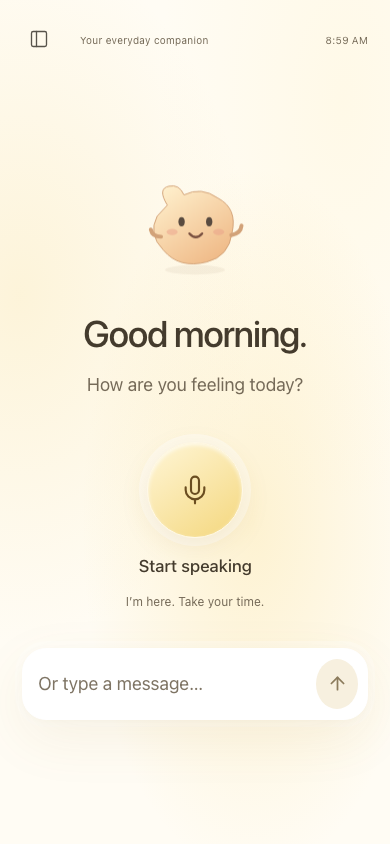
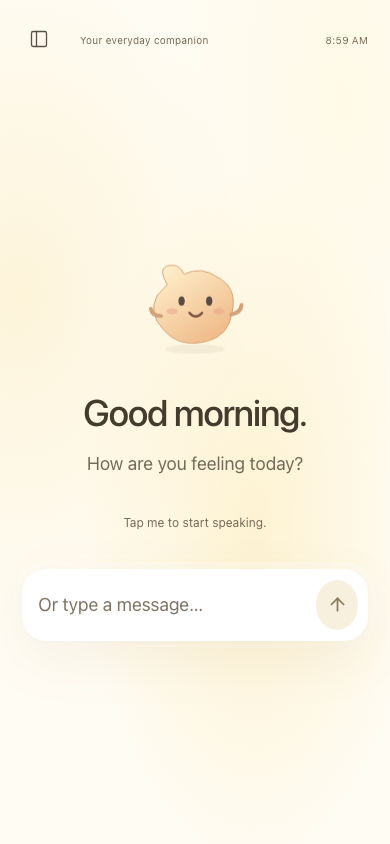
Let people speak to Dayla by tapping the character
Constraint: The character starts and finishes recording without a separate microphone button.
Confidence: high
Scope-risk: narrow
Tested: 18 browser scenarios including character pointer and keyboard control; build, typecheck, lint, format and mobile visual review

Changed region(s): [[0.0923, 0.2156, 0.9231, 0.8626]]

diff --git a/src/client/App.tsx b/src/client/App.tsx
@@ -5,7 +5,6 @@ import {
   Heart,
   PanelLeft,
   MessageCircle,
-  Mic,
   Newspaper,
   Pill,
   RotateCcw,
@@ -368,29 +367,26 @@ export default function App() {
           {view === 'conversation' ? (
             <div className={`conversation ${turns.length ? 'has-turns' : ''}`}>
               <div className="welcome">
-                <DaylaCharacter phase={voice.phase} level={voice.level} />
+                <button
+                  type="button"
+                  className="character-button"
+                  aria-label={voice.phase === 'listening' ? 'Finish speaking' : 'Start speaking'}
+                  aria-describedby="voice-status"
+                  title={voice.phase === 'listening' ? 'Tap to finish' : 'Tap to talk'}
+                  disabled={!online || sending}
+                  onClick={micClick}
+                >
+                  <DaylaCharacter phase={voice.phase} level={voice.level} />
+                </button>
                 <h1 tabIndex={-1}>{greeting}</h1>
                 <p>How are you feeling today?</p>
               </div>
-              <button
-                type="button"
-                className={`voice-trigger ${voice.phase === 'listening' ? 'is-listening' : ''}`}
-                aria-label={voice.phase === 'listening' ? 'Finish speaking' : 'Start speaking'}
-                aria-describedby="voice-status"
-                disabled={!online || sending}
-                onClick={micClick}
-              >
-                <span className="voice-orb" aria-hidden="true">
-                  {voice.phase === 'listening' ? (
-                    <Square size={28} />
-                  ) : (
-                    <Mic size={32} strokeWidth={1.6} />
-                  )}
-                </span>
-                <span>{voice.phase === 'listening' ? 'Finish speaking' : 'Start speaking'}</span>
-              </button>
               <div id="voice-status" className="conversation-status" role="status">
-                {sending ? 'Thinking…' : voice.message || 'I’m here. Take your time.'}
+                {sending
+                  ? 'Thinking…'
+                  : voice.phase === 'listening'
+                    ? 'I’m listening. Tap me again to finish.'
+                    : voice.message || 'Tap me to start speaking.'}
               </div>
               {(voice.phase === 'speaking' ||
                 voice.phase === 'listening' ||

diff --git a/tests/e2e/voice.spec.ts b/tests/e2e/voice.spec.ts
@@ -281,3 +281,23 @@ test('configured voice plays decoded provider audio and can be stopped', async (
   await page.getByRole('button', { name: 'Stop speaking', exact: true }).click();
   await expect(page.locator('.character-idle')).toBeVisible();
 });
+
+test('the character starts and finishes listening with pointer or keyboard', async ({ page }) => {
+  await browserVoices(page);
+  await page.goto('/');
+  const character = page.getByRole('button', { name: 'Start speaking', exact: true });
+  await expect(character.locator('.dayla-character')).toBeVisible();
+  await expect(character).toBeEnabled();
+  await character.click();
+  await page.getByRole('button', { name: 'Use browser voice' }).click();
+  await expect(page.getByText('I’m listening. Tap me again to finish.')).toBeVisible();
+  await page.getByRole('button', { name: 'Finish speaking', exact: true }).click();
+  await expect(character).toBeVisible();
+  await character.press('Enter');
+  await expect(page.getByRole('button', { name: 'Finish speaking', exact: true })).toBeVisible();
+  expect(
+    await page.evaluate(() => (window as unknown as HarnessWindow).__voiceHarness.starts),
+  ).toBe(2);
+  await page.getByRole('button', { name: 'Finish speaking', exact: true }).press('Space');
+  await expect(character).toBeVisible();
+});

diff --git a/src/client/styles.css b/src/client/styles.css
@@ -380,50 +380,19 @@ small {
   gap: 7px;
   align-items: center;
 }
-.voice-trigger {
-  flex-direction: column;
-  gap: 18px;
+.character-button {
+  display: flex;
+  margin: 0 auto;
+  padding: 0;
   border: 0;
-  border-radius: 24px;
-  background: transparent;
-  padding: 12px 24px;
-  font-size: 17px;
-  font-weight: 500;
-  color: var(--ink);
-}
-.voice-trigger:hover {
-  background: transparent;
-}
-.voice-orb {
-  display: grid;
-  place-items: center;
-  width: 96px;
-  height: 96px;
   border-radius: 50%;
-  background: linear-gradient(145deg, #fff6d7, #f4d77d);
-  border: 1px solid #fff9e8;
-  box-shadow:
-    0 8px 28px #a77c2420,
-    0 0 0 8px #ffffff66,
-    inset 0 2px 4px #ffffffb3;
-  color: #6a4d20;
-  transition:
-    box-shadow 0.2s,
-    transform 0.2s;
+  background: transparent;
 }
-.voice-trigger:hover .voice-orb {
-  transform: translateY(-2px);
-  box-shadow:
-    0 12px 32px #a77c2430,
-    0 0 0 10px #ffffff80,
-    inset 0 2px 4px #ffffffb3;
+.character-button:hover {
+  background: #ffffff66;
 }
-.voice-trigger.is-listening .voice-orb {
-  background: #765323;
-  color: white;
-  box-shadow:
-    0 0 0 8px #f2d78b80,
-    0 0 0 16px #f2d78b30;
+.character-button:active {
+  transform: scale(0.97);
 }
 .send-button {
   background: #765323;

diff --git a/docs/DESIGN.md b/docs/DESIGN.md
@@ -2,7 +2,7 @@
 
 ## Current direction
 
-The 2026-10-20 voice-first request supersedes the earlier Korean card dashboard. The interface is English. Home contains a time-of-day greeting, a small original character and a prominent standalone microphone button. Voice status appears directly beneath it; a smaller white text composer provides an always-available alternative. Subtle warm yellow light sits behind the interaction area; generous white space keeps the starting state quiet. Translucent white panels use backdrop blur, white edge highlights and soft amber shadows. The composer and form inputs stay white for a clear reading surface. Native system sans-serif typography keeps headings, body copy and controls clear without a font download.
+The 2026-10-20 voice-first request supersedes the earlier Korean card dashboard. The interface is English. Home contains a time-of-day greeting, an original character that acts as the voice button. Tapping it starts microphone capture after any required consent; tapping again finishes the recording. Voice status below the greeting explains the current action; a smaller white text composer provides an always-available alternative. Subtle warm yellow light sits behind the interaction area; generous white space keeps the starting state quiet. Translucent white panels use backdrop blur, white edge highlights and soft amber shadows. The composer and form inputs stay white for a clear reading surface. Native system sans-serif typography keeps headings, body copy and controls clear without a font download.
 
 The left sidebar opens Conversation, Medication, Schedule, Family, News and Settings. It starts as a compact icon rail on desktop, with a toggle to reveal labels. The panel has 24px rounded corners and a 12px inset from the viewport. On mobile it starts hidden and opens as a rounded drawer; Escape and the backdrop close it. Desktop navigation preserves the expanded state, while selecting a mobile destination closes the drawer. Secondary details should not become a dashboard above the home composer. The original Dayla SVG mark and wordmark identify the sidebar; the character is a separate original drawing, not copied Grok branding.
 
